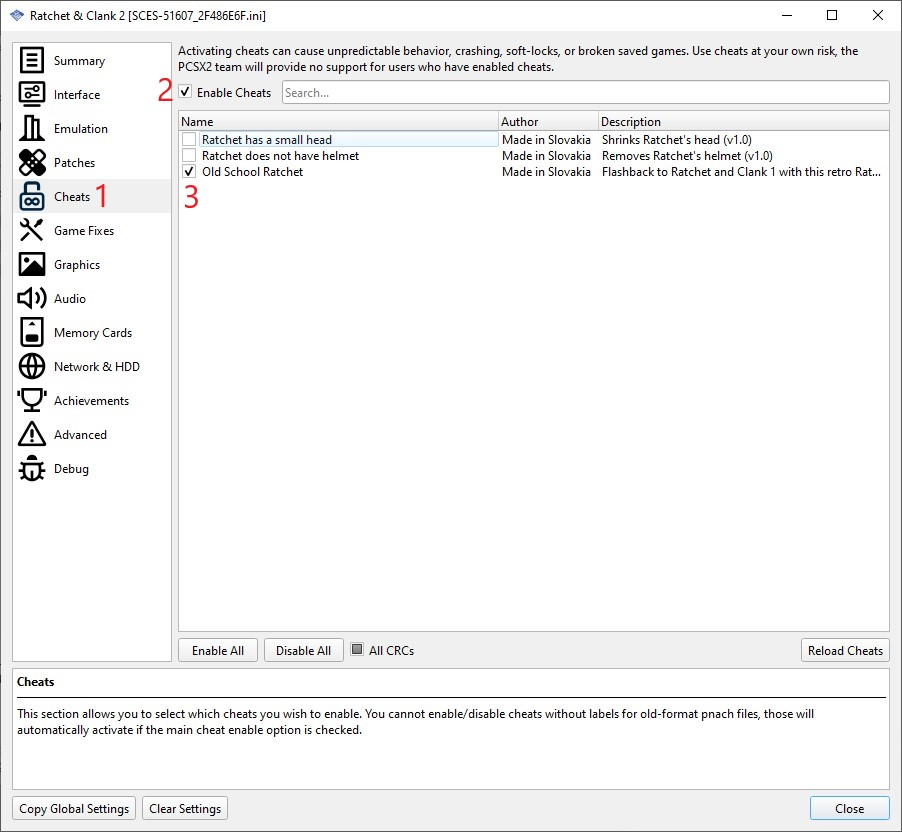
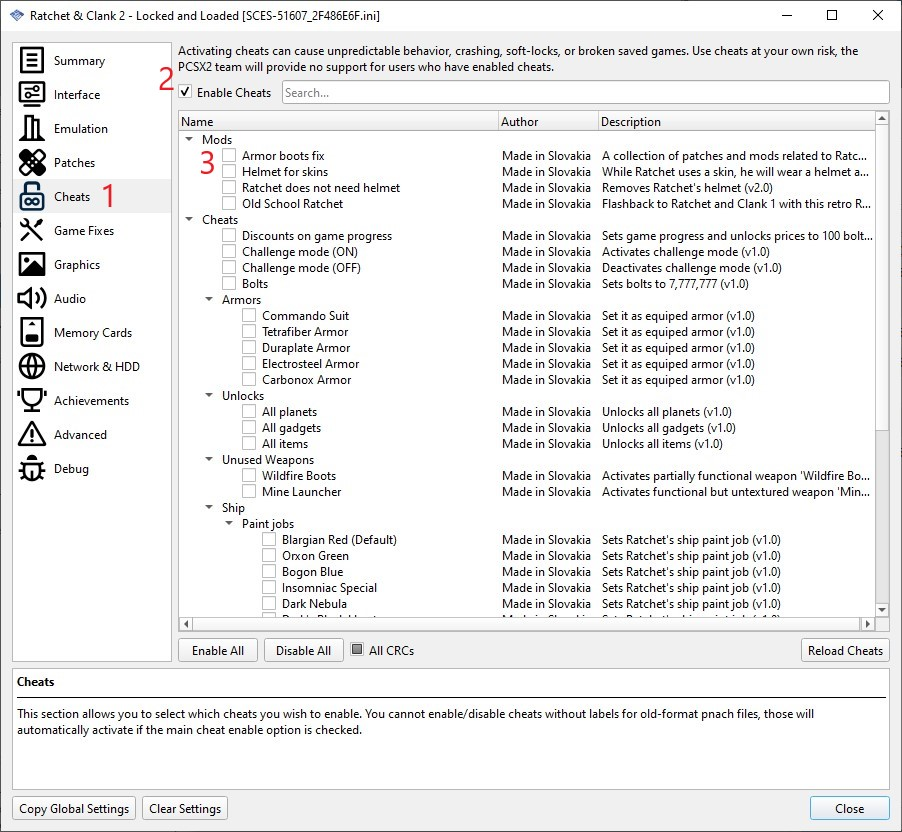
Update conditions in 'Discounts on game progress'

diff --git a/PCSX2/CHANGELOG.md b/PCSX2/CHANGELOG.md
@@ -6,4 +6,5 @@ PCSX2 package
 
 ### Ratchet & Clank 2 (Going Commando)
 
-  * Add few minor cheats
+  * Add `Cheats\Planets\Damosel\Hypnomatic parts`
+  * Update conditions in `Discounts on game progress`
